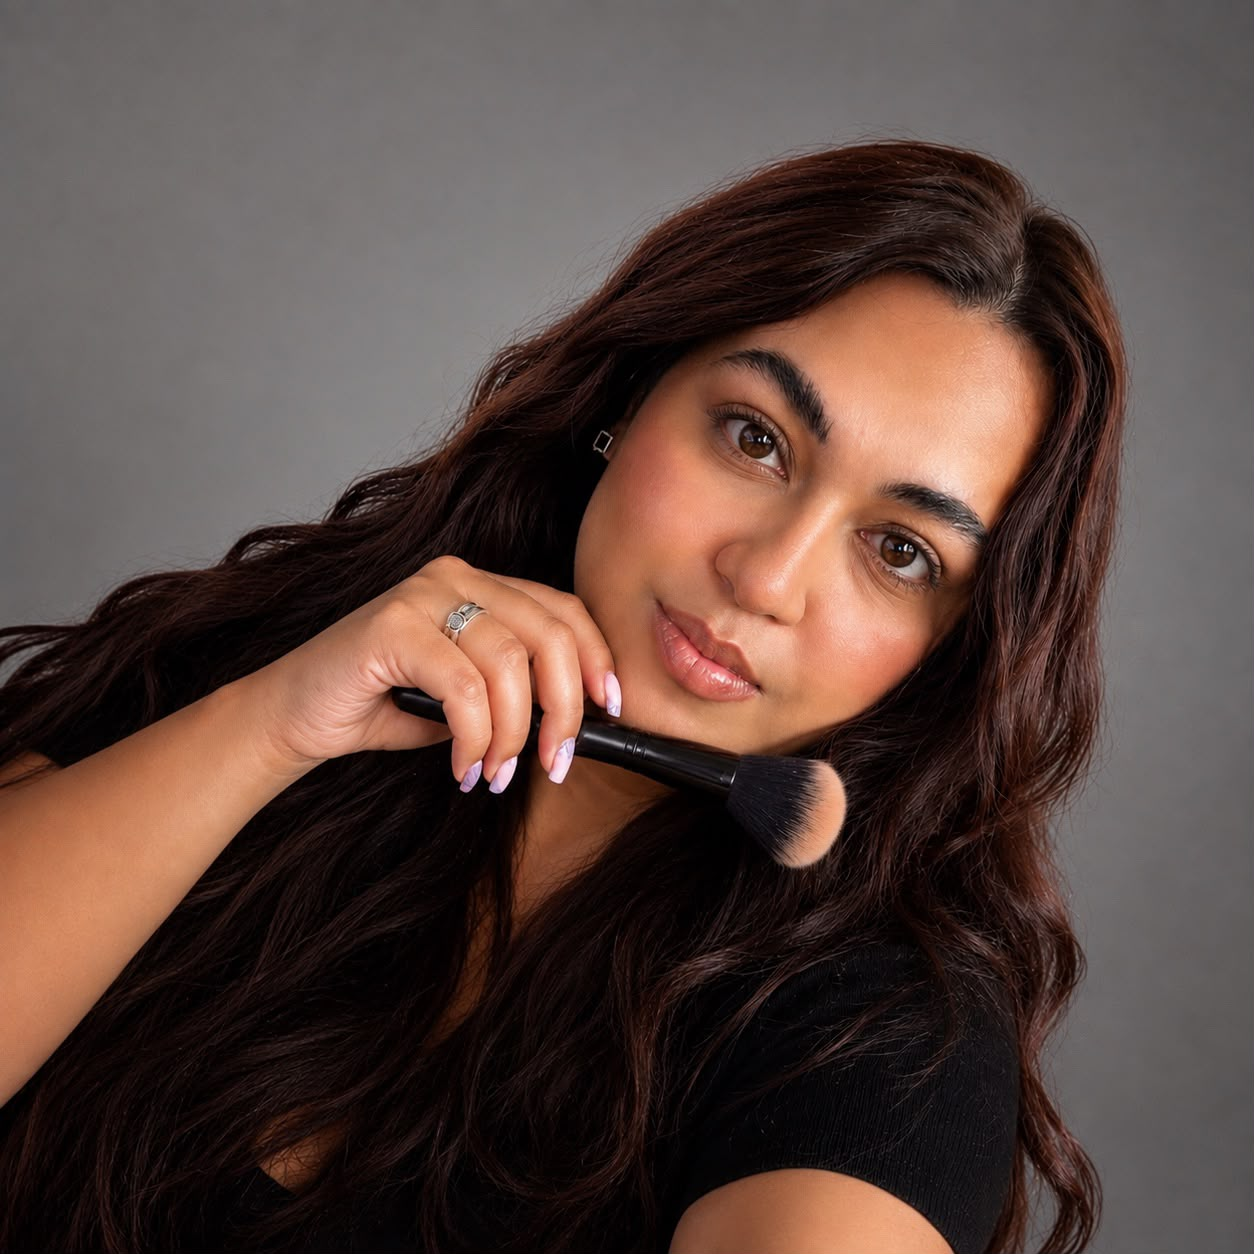
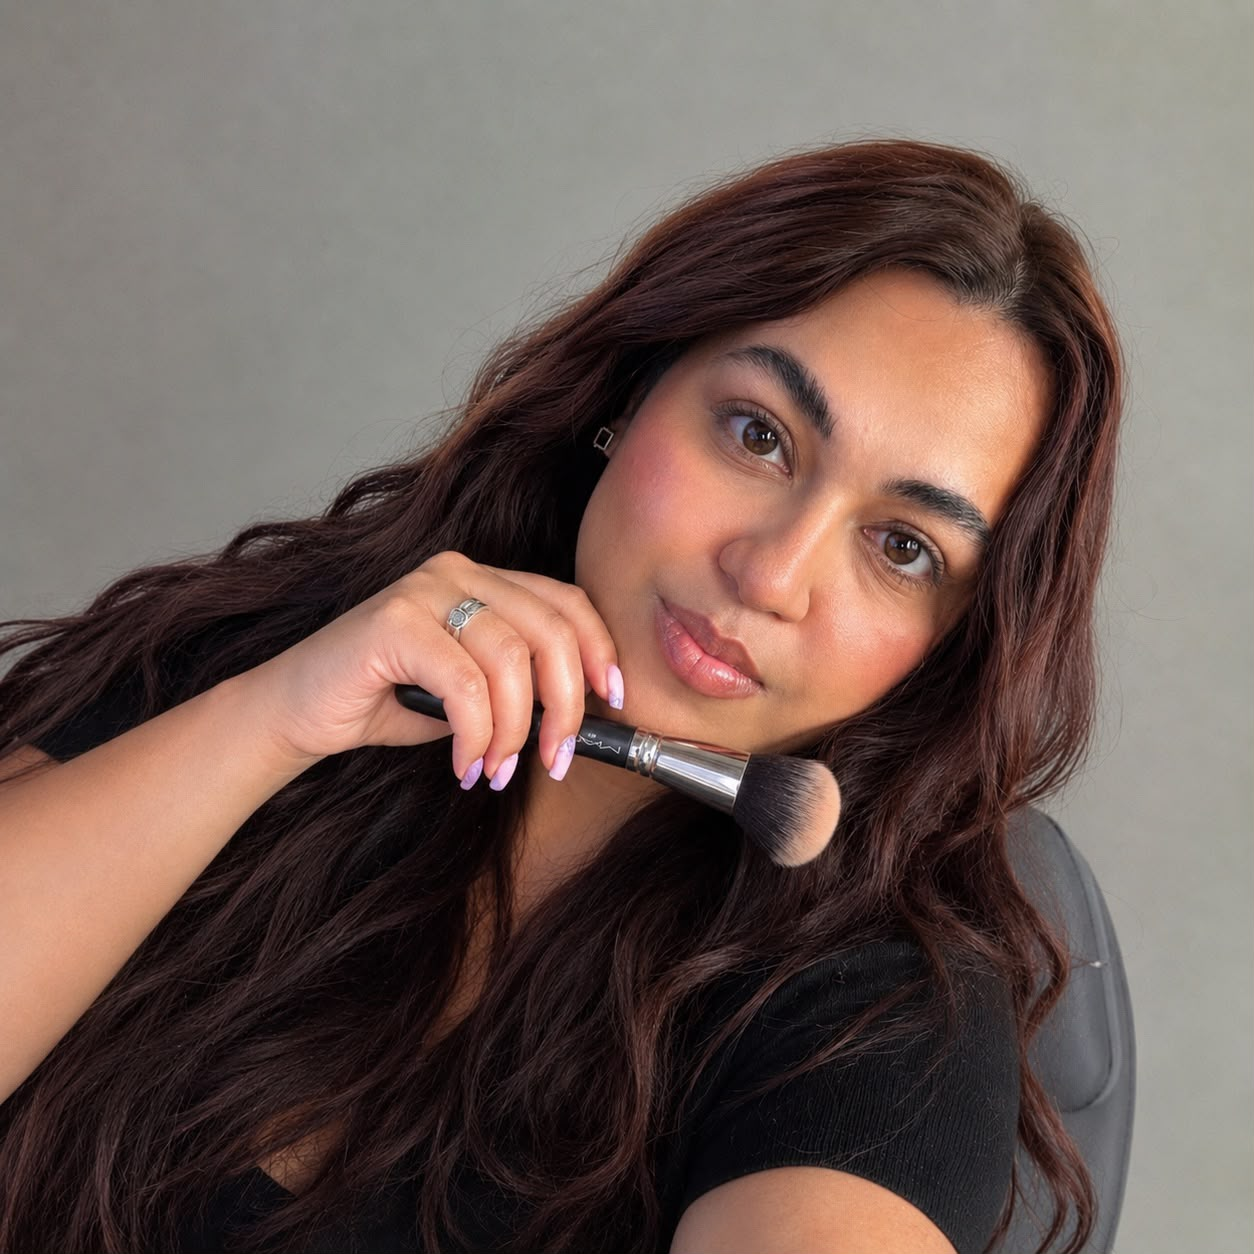
Update image assets and manifest for `artist-portrait`
Updates the binary files for `about-portrait.jpg`, `artist-portrait.jpg`, and `og-image.jpg`. The corresponding `image-manifest.ts` entry for `artist-portrait.jpg` has been adjusted to reflect its new available image sizes.

diff --git a/lib/image-manifest.ts b/lib/image-manifest.ts
@@ -7,7 +7,7 @@ export const imageManifest: Record<string, readonly number[]> = {
   "/images/about-bts-01.jpg": [256, 384, 640, 828, 1080, 1086],
   "/images/about-bts-02.jpg": [256, 384, 640, 828, 1020],
   "/images/about-portrait.jpg": [256, 384, 640, 828, 1080, 1254],
-  "/images/artist-portrait.jpg": [256, 384, 640, 828, 1080, 1254],
+  "/images/artist-portrait.jpg": [256, 384, 640, 828, 1024],
   "/images/bridal-experience.jpg": [256, 384, 640, 828, 1080, 1122],
   "/images/bridal-hero.jpg": [256, 384, 640, 828, 1080, 1440, 1920],
   "/images/bridal-intro.jpg": [256, 384, 640, 828, 1080, 1200],
